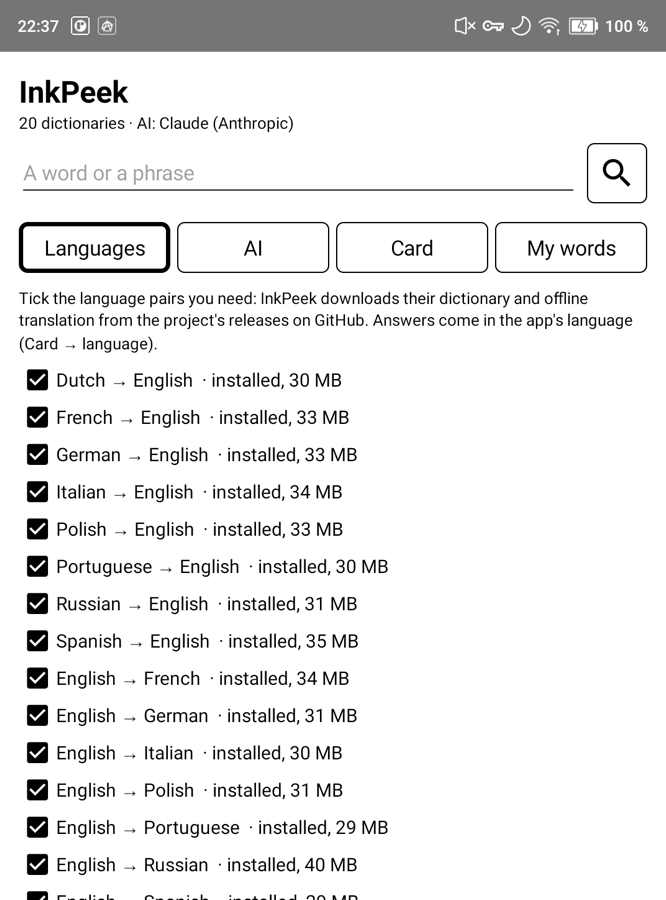
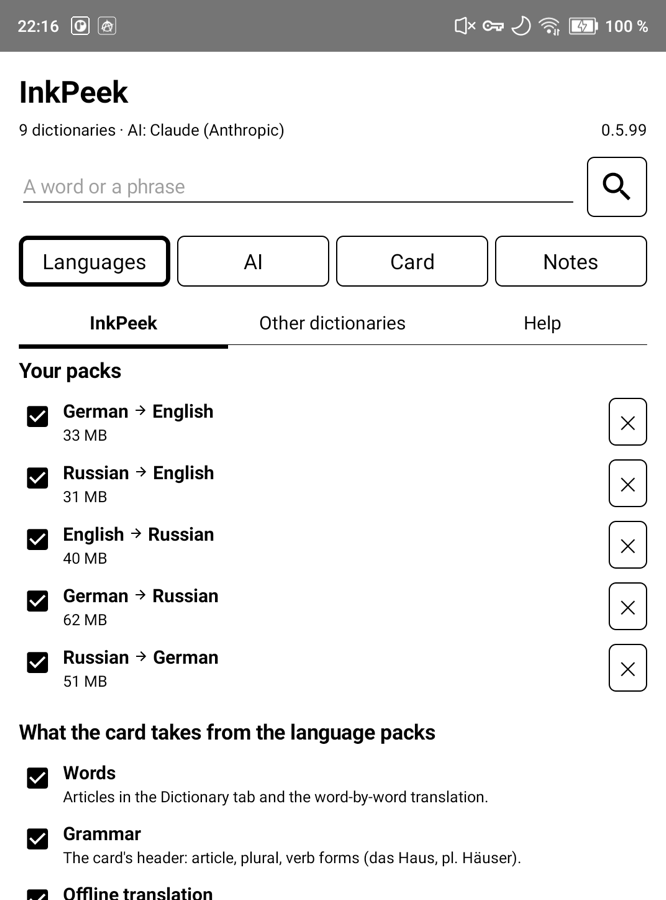
0.5: rows selected up to their source line, Notes fields selectable, a tap beside a selection ends it, triple tap selects a paragraph; a saved or history line keeps its language and lists prefer the app's; README (hold to copy, updates, privacy), the Languages screenshot

diff --git a/app/src/main/java/io/github/kafeg/inkpeek/Store.kt b/app/src/main/java/io/github/kafeg/inkpeek/Store.kt
@@ -11,7 +11,7 @@ import java.io.File
  * One SQLite file in /sdcard/InkPeek (survives a reinstall): lookup history, saved words and phrases, and the answers
  * (AI, offline translation) of those texts: an answer lives as long as its text is in the history or saved.
  */
-class Store private constructor(ctx: Context, path: String) : SQLiteOpenHelper(ctx, path, null, 2) {
+class Store private constructor(ctx: Context, path: String) : SQLiteOpenHelper(ctx, path, null, 3) {
     /** [kind]: "word" or "phrase"; [meaning]: one short line, may be empty. */
     data class Entry(val text: String, val kind: String, val meaning: String, val time: Long)
 
@@ -19,8 +19,8 @@ class Store private constructor(ctx: Context, path: String) : SQLiteOpenHelper(c
 
     override fun onCreate(db: SQLiteDatabase) {
         db.execSQL("CREATE TABLE ai(text TEXT, lang TEXT, section TEXT, ver INTEGER, model TEXT, answer TEXT, created INTEGER, PRIMARY KEY(text, lang, section, ver))")
-        db.execSQL("CREATE TABLE saved(text TEXT PRIMARY KEY, kind TEXT, meaning TEXT, created INTEGER)")
-        db.execSQL("CREATE TABLE history(text TEXT PRIMARY KEY, kind TEXT, seen INTEGER, count INTEGER, meaning TEXT)")
+        db.execSQL("CREATE TABLE saved(text TEXT PRIMARY KEY, kind TEXT, meaning TEXT, created INTEGER, lang TEXT)")
+        db.execSQL("CREATE TABLE history(text TEXT PRIMARY KEY, kind TEXT, seen INTEGER, count INTEGER, meaning TEXT, lang TEXT)")
     }
 
     /** An older app over a newer file (debug ↔ release share it): keep the data, the extra columns do no harm. */
@@ -28,6 +28,8 @@ class Store private constructor(ctx: Context, path: String) : SQLiteOpenHelper(c
 
     override fun onUpgrade(db: SQLiteDatabase, from: Int, to: Int) {
         if (from < 2) { db.execSQL("ALTER TABLE history ADD COLUMN meaning TEXT"); dropAnswers(db) }
+        // The language of a meaning: a list in another app language shows its own when there is one.
+        if (from < 3) { db.execSQL("ALTER TABLE saved ADD COLUMN lang TEXT"); db.execSQL("ALTER TABLE history ADD COLUMN lang TEXT") }
     }
 
     /** Answers of texts that are neither in the history nor saved. */
@@ -46,16 +48,16 @@ class Store private constructor(ctx: Context, path: String) : SQLiteOpenHelper(c
     }
 
     fun isSaved(text: String) = readableDatabase.rawQuery("SELECT 1 FROM saved WHERE text=?", arrayOf(text)).use { it.moveToFirst() }
-    fun save(text: String, kind: String, meaning: String) {
+    fun save(text: String, kind: String, meaning: String, lang: String) {
         writableDatabase.insertWithOnConflict("saved", null, ContentValues().apply {
-            put("text", text); put("kind", kind); put("meaning", meaning); put("created", System.currentTimeMillis())
+            put("text", text); put("kind", kind); put("meaning", meaning); put("lang", lang); put("created", System.currentTimeMillis())
         }, SQLiteDatabase.CONFLICT_REPLACE)
     }
     fun unsave(text: String) { writableDatabase.run { delete("saved", "text=?", arrayOf(text)); dropAnswers(this) } }
 
-    /** Saved entries of [kind], newest first; an empty meaning comes from the history, else a cached AI answer in [lang]. */
-    fun saved(kind: String, lang: String): List<Entry> = list(
-        "SELECT s.text, s.kind, s.meaning, s.created, a.answer, h.meaning FROM saved s LEFT JOIN history h ON h.text=s.text " +
+    /** Saved entries of [kind], newest first, each with its line in [lang] where there is one (see [list]). */
+    fun saved(kind: String, lang: String): List<Entry> = list(lang,
+        "SELECT s.text, s.kind, s.meaning, s.created, a.answer, h.meaning, s.lang, h.lang FROM saved s LEFT JOIN history h ON h.text=s.text " +
             "LEFT JOIN ai a ON a.text=s.text AND a.lang=? AND a.section='quick' WHERE s.kind=? GROUP BY s.text ORDER BY s.created DESC", arrayOf(lang, kind))
 
     fun seen(text: String, kind: String) = writableDatabase.let { db -> db.beginTransaction(); try { seen(db, text, kind); db.setTransactionSuccessful() } finally { db.endTransaction() } }
@@ -70,13 +72,13 @@ class Store private constructor(ctx: Context, path: String) : SQLiteOpenHelper(c
         }
     }
     /** One short line for the history: the dictionary's first line of a word, the offline translation of a phrase. */
-    fun meaning(text: String, kind: String, meaning: String) {
+    fun meaning(text: String, kind: String, meaning: String, lang: String) {
         val db = writableDatabase
         db.execSQL("INSERT OR IGNORE INTO history(text, kind, seen, count) VALUES(?, ?, ?, 0)", arrayOf(text, kind, System.currentTimeMillis()))
-        db.execSQL("UPDATE history SET meaning=? WHERE text=?", arrayOf(meaning, text))
+        db.execSQL("UPDATE history SET meaning=?, lang=? WHERE text=?", arrayOf(meaning, lang, text))
     }
-    fun history(lang: String): List<Entry> = list(
-        "SELECT h.text, h.kind, h.meaning, h.seen, a.answer, '' FROM history h LEFT JOIN ai a ON a.text=h.text AND a.lang=? AND a.section='quick' " +
+    fun history(lang: String): List<Entry> = list(lang,
+        "SELECT h.text, h.kind, '', h.seen, a.answer, h.meaning, '', h.lang FROM history h LEFT JOIN ai a ON a.text=h.text AND a.lang=? AND a.section='quick' " +
             "GROUP BY h.text ORDER BY h.seen DESC", arrayOf(lang))
     /** Removing a text from the history also removes its answers, unless it is saved. */
     fun forget(text: String) { writableDatabase.run { delete("history", "text=?", arrayOf(text)); dropAnswers(this) } }
@@ -84,9 +86,17 @@ class Store private constructor(ctx: Context, path: String) : SQLiteOpenHelper(c
     fun count(table: String): Int = readableDatabase.rawQuery("SELECT COUNT(*) FROM $table", null).use { it.moveToFirst(); it.getInt(0) }
     fun count(table: String, kind: String): Int = readableDatabase.rawQuery("SELECT COUNT(*) FROM $table WHERE kind=?", arrayOf(kind)).use { it.moveToFirst(); it.getInt(0) }
 
-    private fun list(sql: String, args: Array<String>) = readableDatabase.rawQuery(sql, args).use { c ->
-        generateSequence { if (c.moveToNext()) Entry(c.getString(0), c.getString(1),
-            c.getString(2).orEmpty().ifBlank { c.getString(5).orEmpty() }.ifBlank { brief(c.getString(4)) }, c.getLong(3)) else null }.toList()
+    /**
+     * Rows: text, kind, saved line, time, AI answer in [lang], history line, saved line's language, history line's.
+     * The line shown: one in [lang] (saved, history, the AI answer), else whichever there is (a list in a new app language).
+     */
+    private fun list(lang: String, sql: String, args: Array<String>) = readableDatabase.rawQuery(sql, args).use { c ->
+        generateSequence { if (!c.moveToNext()) null else {
+            val saved = c.getString(2).orEmpty(); val hist = c.getString(5).orEmpty(); val ai = brief(c.getString(4))
+            val line = listOf(saved.takeIf { c.getString(6) == lang }, hist.takeIf { c.getString(7) == lang }, ai, saved, hist)
+                .firstOrNull { !it.isNullOrBlank() }.orEmpty()
+            Entry(c.getString(0), c.getString(1), line, c.getLong(3))
+        } }.toList()
     }
 
     companion object {

diff --git a/app/src/main/java/io/github/kafeg/inkpeek/ui/TextActions.kt b/app/src/main/java/io/github/kafeg/inkpeek/ui/TextActions.kt
@@ -23,22 +23,36 @@ import io.github.kafeg.inkpeek.R
  * press on a list row) or the selection in a long text. It floats over the page: nothing under it moves.
  */
 object TextActions {
-    /**
-     * A row made of several fields (Notes, history): a long press greys it as a selection is greyed and opens the menu
-     * for its whole [text].
-     */
-    fun line(row: View, text: () -> String) = row.setOnLongClickListener { v ->
-        val was = v.background
-        v.setBackgroundColor(0x40808080)
-        show(v, inWindow(v, Rect(0, 0, v.width, v.height)), text(), done = { v.background = was }); true
+    /** The selection being shown, so a tap beside it ends it ([outside]). */
+    private var active: Pair<TextView, ActionMode>? = null
+
+    /** A tap on an empty place of the screen ends the selection and its menu (a tap on text did already). */
+    fun outside(ev: android.view.MotionEvent) {
+        val (tv, mode) = active ?: return
+        if (ev.actionMasked != android.view.MotionEvent.ACTION_DOWN) return
+        val r = Rect(); tv.getGlobalVisibleRect(r)
+        if (!r.contains(ev.rawX.toInt(), ev.rawY.toInt())) mode.finish()
     }
 
     /**
-     * A long text: selection with its handles, our menu instead of Android's, moving with the handles. [whole]: a list
-     * row — a long press selects all of it, so what will be copied is seen, and the handles can narrow it.
+     * A text you can select: the handles, our menu instead of Android's, moving with the handles. Double tap: a word;
+     * triple tap: the paragraph. [row]: a list row — a long press selects its text up to where [row] says (not the
+     * source line under it), so what will be copied is seen; the handles narrow or widen it.
      */
-    fun selectable(tv: TextView, whole: Boolean = false) {
+    fun selectable(tv: TextView, row: ((CharSequence) -> Int)? = null) {
         tv.setTextIsSelectable(true)
+        var taps = 0; var lastUp = 0L
+        tv.setOnTouchListener { _, ev ->
+            when (ev.actionMasked) {
+                android.view.MotionEvent.ACTION_DOWN -> {
+                    taps = if (ev.eventTime - lastUp < 350) taps + 1 else 1
+                    // The third tap selects the paragraph; Android would take it for a tap that ends the selection.
+                    if (taps == 3) { paragraph(tv, tv.getOffsetForPosition(ev.x, ev.y)); true } else false
+                }
+                android.view.MotionEvent.ACTION_UP -> { lastUp = ev.eventTime; taps >= 3 }
+                else -> taps >= 3
+            }
+        }
         tv.customSelectionActionModeCallback = object : ActionMode.Callback {
             var pop: PopupWindow? = null
             // Android's own menu stays empty (so it is not shown, and it reports nothing): the selection is watched here.
@@ -51,11 +65,12 @@ object TextActions {
                 tv.post { val p = pop; val r = selection(tv); if (p != null && r != null) place(p, tv, r, false) } }
             fun selected() = tv.text.subSequence(tv.selectionStart.coerceAtLeast(0), tv.selectionEnd.coerceAtLeast(0)).toString()
             override fun onCreateActionMode(mode: ActionMode, menu: Menu): Boolean {
-                menu.clear()
-                (tv.text as? android.text.Spannable)?.setSpan(watch, 0, tv.text.length, android.text.Spanned.SPAN_INCLUSIVE_INCLUSIVE)
-                if (whole) tv.post { (tv.text as? android.text.Spannable)?.let { android.text.Selection.selectAll(it) } }
+                menu.clear(); active?.second?.takeIf { it !== mode }?.finish(); active = tv to mode
+                val text = tv.text as? android.text.Spannable
+                text?.setSpan(watch, 0, text.length, android.text.Spanned.SPAN_INCLUSIVE_INCLUSIVE)
+                if (row != null && taps < 2) tv.post { text?.let { android.text.Selection.setSelection(it, 0, row(it).coerceIn(1, it.length)) } }
                 tv.post { val r = selection(tv) ?: return@post
-                    pop = show(tv, r, null, select = { selected() }, all = { (tv.text as? android.text.Spannable)?.let { android.text.Selection.selectAll(it) } },
+                    pop = show(tv, r, null, select = { selected() }, all = { text?.let { android.text.Selection.selectAll(it) } },
                         done = { mode.finish() }) }
                 return true
             }
@@ -63,8 +78,17 @@ object TextActions {
             override fun onActionItemClicked(mode: ActionMode, item: MenuItem) = false
             override fun onDestroyActionMode(mode: ActionMode) {
                 (tv.text as? android.text.Spannable)?.removeSpan(watch); pop?.dismiss(); pop = null
+                if (active?.second === mode) active = null
             }
         }
+    }
+
+    /** The paragraph around [at]: from the line break before it to the one after. */
+    private fun paragraph(tv: TextView, at: Int) {
+        val t = tv.text as? android.text.Spannable ?: return
+        val a = t.lastIndexOf('\n', (at - 1).coerceAtLeast(0)).let { if (it < 0 || it >= at) 0 else it + 1 }
+        val b = t.indexOf('\n', at).let { if (it < 0) t.length else it }
+        if (b > a) android.text.Selection.setSelection(t, a, b)
     }
 
     /** Where the selection of [tv] is, in its window: its first line to its last. */

diff --git a/app/src/main/java/io/github/kafeg/inkpeek/ui/CardActivity.kt b/app/src/main/java/io/github/kafeg/inkpeek/ui/CardActivity.kt
@@ -90,7 +90,7 @@ class CardActivity : Activity(), CoroutineScope by MainScope() {
         placeWindow()
         if (kind == Kind.WORD) head()
         // A phrase: the offline translation starts at once; it fills Translate and the history line.
-        else launch { mt.start(this@CardActivity).await().text?.getOrNull()?.let { t -> withContext(Dispatchers.IO) { runCatching { store.meaning(query, kindName, t) } } } }
+        else launch { mt.start(this@CardActivity).await().text?.getOrNull()?.let { t -> withContext(Dispatchers.IO) { runCatching { store.meaning(query, kindName, t, prefs.answerLang) } } } }
         open(if (kind != Kind.WORD && prefs.phraseAutoAi && canTranslate) TRANSLATE else DICT)
     }
 
@@ -280,7 +280,7 @@ class CardActivity : Activity(), CoroutineScope by MainScope() {
         if (!prefs.packGrammar) return@launch
         val heads = withContext(Dispatchers.IO) { runCatching { prefs.library().heads(query, prefs.answerCode, prefs.packDictionaries()) }.getOrDefault(emptyList()) }
         val first = heads.firstOrNull() ?: return@launch
-        launch(Dispatchers.IO) { runCatching { store.meaning(query, kindName, first.line) } }
+        launch(Dispatchers.IO) { runCatching { store.meaning(query, kindName, first.line, prefs.answerLang) } }
         titleView.text = first.header
         // The selected form, and the same word in another book language ("Gift" is German and English).
         val sub = listOfNotNull(if (first.word.equals(query, true)) null else getString(R.string.form_of_sel, query), heads.getOrNull(1)?.header).joinToString("\n")
@@ -298,7 +298,7 @@ class CardActivity : Activity(), CoroutineScope by MainScope() {
             if (store.isSaved(query)) { store.unsave(query); false } else {
                 val line = answers.saved() ?: if (kind != Kind.WORD) mt.done() else prefs.library().heads(query, prefs.answerCode, prefs.packDictionaries())
                     .firstOrNull()?.let { if (prefs.packGrammar) it.line else "${it.word} — ${it.meaning}" }
-                store.save(query, kindName, line.orEmpty()); true
+                store.save(query, kindName, line.orEmpty(), prefs.answerLang); true
             }
         }.getOrNull() } ?: return@launch
         starred(on)
@@ -313,4 +313,7 @@ class CardActivity : Activity(), CoroutineScope by MainScope() {
         /** Border of the open tab: a little heavier than the others, not bold. */
         const val SELECTED = 4
     }
+
+    /** A tap beside a selection ends it and its menu. */
+    override fun dispatchTouchEvent(ev: android.view.MotionEvent): Boolean { TextActions.outside(ev); return super.dispatchTouchEvent(ev) }
 }

diff --git a/app/src/main/java/io/github/kafeg/inkpeek/ui/DictionaryPage.kt b/app/src/main/java/io/github/kafeg/inkpeek/ui/DictionaryPage.kt
@@ -53,7 +53,7 @@ class DictionaryPage(private val card: CardActivity) {
                 p.addView(Ink.text(card, "$form$first<br><small>${Ink.escape(card.source(dict))}</small>", card.size, html = true).apply {
                     val q = Ink.dp(card, 6); setPadding(0, q, 0, q)
                     setOnClickListener { article(dict, list, word) { articles(word, to) } }
-                    TextActions.selectable(this, whole = true)
+                    TextActions.selectable(this) { t -> t.lastIndexOf('\n').takeIf { it > 0 } ?: t.length } // not the source line
                 })
             }
         }
@@ -100,7 +100,7 @@ class DictionaryPage(private val card: CardActivity) {
                 p.addView(Ink.text(card, text, card.size, html = true).apply {
                     val q = Ink.dp(card, 4); setPadding(0, q, 0, q)
                     setOnClickListener { tap(x.base.ifBlank { x.word }) }
-                    TextActions.selectable(this, whole = true)
+                    TextActions.selectable(this) { it.length }
                 })
             }
         }

diff --git a/app/src/main/java/io/github/kafeg/inkpeek/ui/WordsList.kt b/app/src/main/java/io/github/kafeg/inkpeek/ui/WordsList.kt
@@ -10,8 +10,9 @@ object WordsList {
         gravity = Gravity.CENTER_VERTICAL
         addView(Ink.entry(ctx, e.text, e.meaning, sp).apply {
             val q = Ink.dp(ctx, 6); setPadding(0, q, q, q); setOnClickListener { open() }
-            // Held: copy, share or search the entry with its line.
-            TextActions.line(this) { if (e.meaning.isBlank()) e.text else "${e.text} — ${e.meaning}" }
+            // The text and its line: each selectable as a whole when held, a tap still opens the entry.
+            (0 until childCount).mapNotNull { getChildAt(it) as? android.widget.TextView }.forEach { tv ->
+                TextActions.selectable(tv) { it.length }; tv.setOnClickListener { open() } }
         }, Ink.lp(0, weight = 1f))
         addView(Ink.button(ctx, "✕", sp * 0.9f) { remove() })
     }

diff --git a/app/src/main/java/io/github/kafeg/inkpeek/ui/Ink.kt b/app/src/main/java/io/github/kafeg/inkpeek/ui/Ink.kt
@@ -38,7 +38,7 @@ object Ink {
         s.indices.filter { s[it] == '→' }.forEach { i ->
             // <small> and other relative sizes at that place: the arrow of a small caption is small too.
             val scale = out.getSpans(i, i + 1, android.text.style.RelativeSizeSpan::class.java).fold(1f) { k, sp -> k * sp.sizeChange }
-            val side = (px * scale * 0.8f).toInt()
+            val side = (px * scale * 0.9f).toInt()
             val d = ctx.getDrawable(io.github.kafeg.inkpeek.R.drawable.ic_forward)!!.mutate().apply { setTint(fg(ctx)); setBounds(0, 0, side, side) }
             out.setSpan(android.text.style.ImageSpan(d, android.text.style.DynamicDrawableSpan.ALIGN_CENTER), i, i + 1, android.text.Spanned.SPAN_EXCLUSIVE_EXCLUSIVE)
         }

diff --git a/app/src/main/java/io/github/kafeg/inkpeek/ui/MainActivity.kt b/app/src/main/java/io/github/kafeg/inkpeek/ui/MainActivity.kt
@@ -184,4 +184,7 @@ class MainActivity : Activity(), CoroutineScope by MainScope() {
     }
 
     fun toast(s: String) = Toast.makeText(this, s, Toast.LENGTH_LONG).show()
+
+    /** A tap beside a selection ends it and its menu. */
+    override fun dispatchTouchEvent(ev: android.view.MotionEvent): Boolean { TextActions.outside(ev); return super.dispatchTouchEvent(ev) }
 }

diff --git a/README.md b/README.md
@@ -117,6 +117,9 @@ If another dictionary app answers the same request, Android asks which one to us
   instantly; the answers are kept with the history entry and go when you remove that entry. With AI off they are gone.
 - What you selected decides what the tabs do: one word, a short phrase (up to 8 words), or a passage (longer, or more
   than one sentence).
+- **Hold a text** to copy, share or search the web: a line of the dictionary list, word by word, Notes or the history
+  is selected whole (the handles narrow it); in a translation, an article or an AI answer select any part. A small menu
+  of icons opens over it, like FBReader's.
 - **Notes**: ☆ saves a word or phrase; the app keeps the history too, each entry with one short line (50 per page).
 - **The card's look** (Card → Window): height by content (a small card, like KOReader's) or a share of the screen;
   width; position — top, centre, bottom, or where the reader asks (FBReader and Librera send it, so the card does not
@@ -280,7 +283,8 @@ facts — and the general style can be edited and reset; the answer's keys and f
 are kept.
 
 **Privacy:** only the selected text and the tab's request go to the provider you chose: when you open an AI tab, or
-Translate while AI is on and online. With AI off nothing leaves the device. No telemetry, no accounts.
+Translate while AI is on and online. With AI off no text leaves the device; the daily update check (one request to
+GitHub, can be turned off) and downloads you start are the only other network use. No telemetry, no accounts.
 
 ### Protocol
 | intent | text extra | notes |
@@ -301,7 +305,12 @@ adb install -r app/build/outputs/apk/debug/app-debug.apk
 scripts/device-test.sh        # the language packs on a connected device: headers, forms, language, offline translation
 ```
 
-The version is `0.4.<number of commits>`; the same number is the version code.
+The version is `0.5.<number of commits>`; the same number is the version code. What changed: [CHANGELOG.md](CHANGELOG.md).
+
+**Updates:** the version is on the right of the settings' status line; a tap opens About. Once a day, when settings
+open, InkPeek asks GitHub for the latest release (one request; About → "Check once a day" turns it off). When a newer
+one is out, the version line says so; Update downloads it in the app and Android's installer asks you to confirm (the
+first time also to allow InkPeek to install apps).
 
 Kotlin, Android Views, Android 11+ (minSdk 30), 64-bit ARM. The translation engine is C++ built with the NDK:
 `git clone --recurse-submodules` (or `git submodule update --init --recursive`). Design notes: [docs/spec.md](docs/spec.md).

diff --git a/CHANGELOG.md b/CHANGELOG.md
@@ -4,8 +4,10 @@ What changed for people who use InkPeek. The version is `<major>.<minor>.<commit
 count, so every release has its own.
 
 ## 0.5 — unreleased
-- Copy, share or search the web from the card: hold a line (dictionary, word by word, history, notes) or select part
-  of a text (translation, article, AI answer, headers); a small menu opens over it.
+- Copy, share or search the web: hold a line of the dictionary list, word by word, Notes or the history (in the card
+  and in settings) — its text is selected, the handles narrow or widen it — or select in a translation, an article,
+  an AI answer or a header (double tap: a word, triple tap: the paragraph). A small menu of icons opens over it; a tap
+  beside it closes it.
 - The version in the settings header, with a link when a newer one is out; About: what InkPeek is, the version,
   "Check now", a daily check you can turn off, GitHub and the license.
 - Updates download inside the app with progress and Cancel, then Android's installer opens.
@@ -14,6 +16,8 @@ count, so every release has its own.
 - A dictionary already in the folder is not added again (downloaded or imported twice); the download page marks the
   ones you have.
 - Back and page arrows as icons; "→" drawn in the middle of the line.
+- Notes and the history show each entry's line in the app's language when there is one (a saved line keeps its
+  language).
 
 ## 0.4 — 2026-10-21
 - Other dictionaries: any StarDict dictionary (KOReader's format) — download from WikDict, Wiktionary (xxyzz) or
